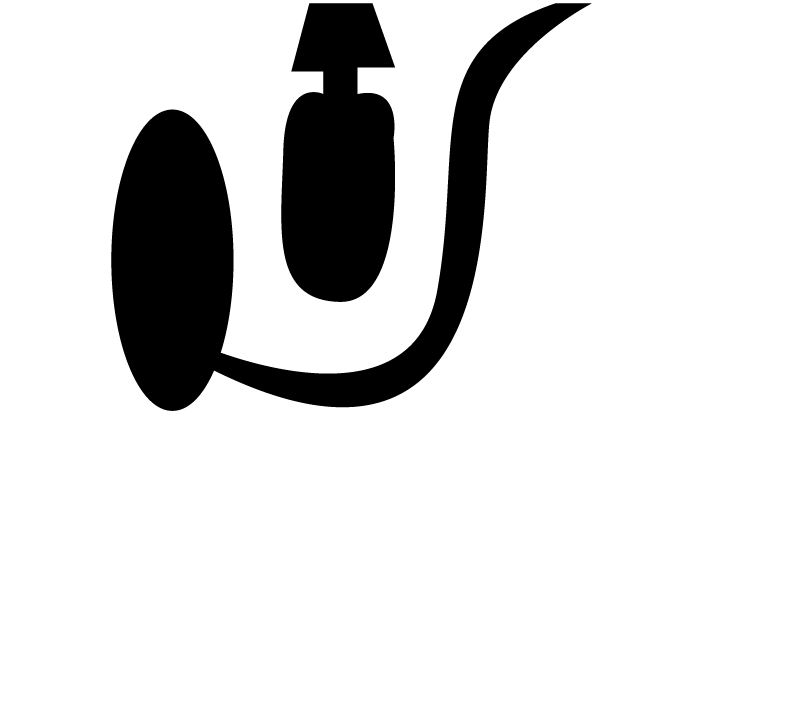
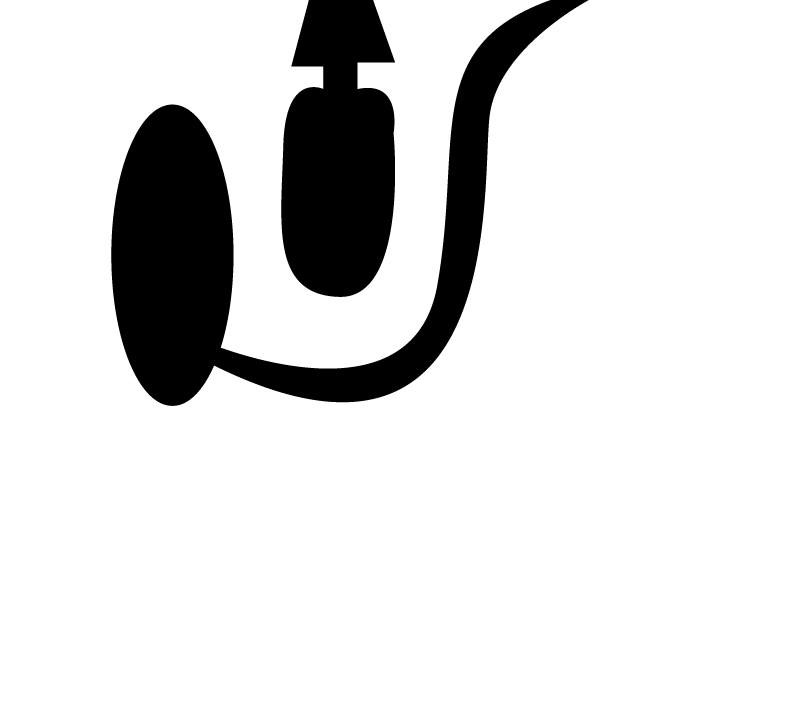
change

diff --git a/css/main.css b/css/main.css
@@ -143,24 +143,28 @@ textarea {
      background-color:#d85a13;
      min-height: 525px;
      margin-top: 50px;
+     position: relative;
    }
 
    .teal {
      background-color:#239977;
      min-height: 525px;
      margin-top: 50px;
+     position: relative;
    }
 
    .red {
      background-color:#992222;
      min-height: 525px;
      margin-top: 50px;
+     position: relative;
    }
 
    .purple {
      background-color:#3b1f7f;
      min-height: 525px;
      margin-top: 50px;
+     position: relative;
    }
 
    .lefthalf-images {
@@ -172,10 +176,10 @@ textarea {
     float: left;
    }
 
-   .righthalf-images {
+   .righthalf-images-2 {
      height: auto;
      width: 50%;
-     bottom: 0px;
+     top: 0px;
      position: absolute;
      display: block;
      float: left;

diff --git a/index.html b/index.html
@@ -74,7 +74,7 @@
 <!--orange-1-->
 <div class="orange">
   <img class="lefthalf-images" src="orangeone-a.png"/>
-  <img class="righthalf-images" src="orangeone-b.png"/>
+  <img class="righthalf-images-2" src="orangeone-b.png"/>
 </div>
     <div class="live-area">
       <h4 style= color:#fca886>1993</h4>
